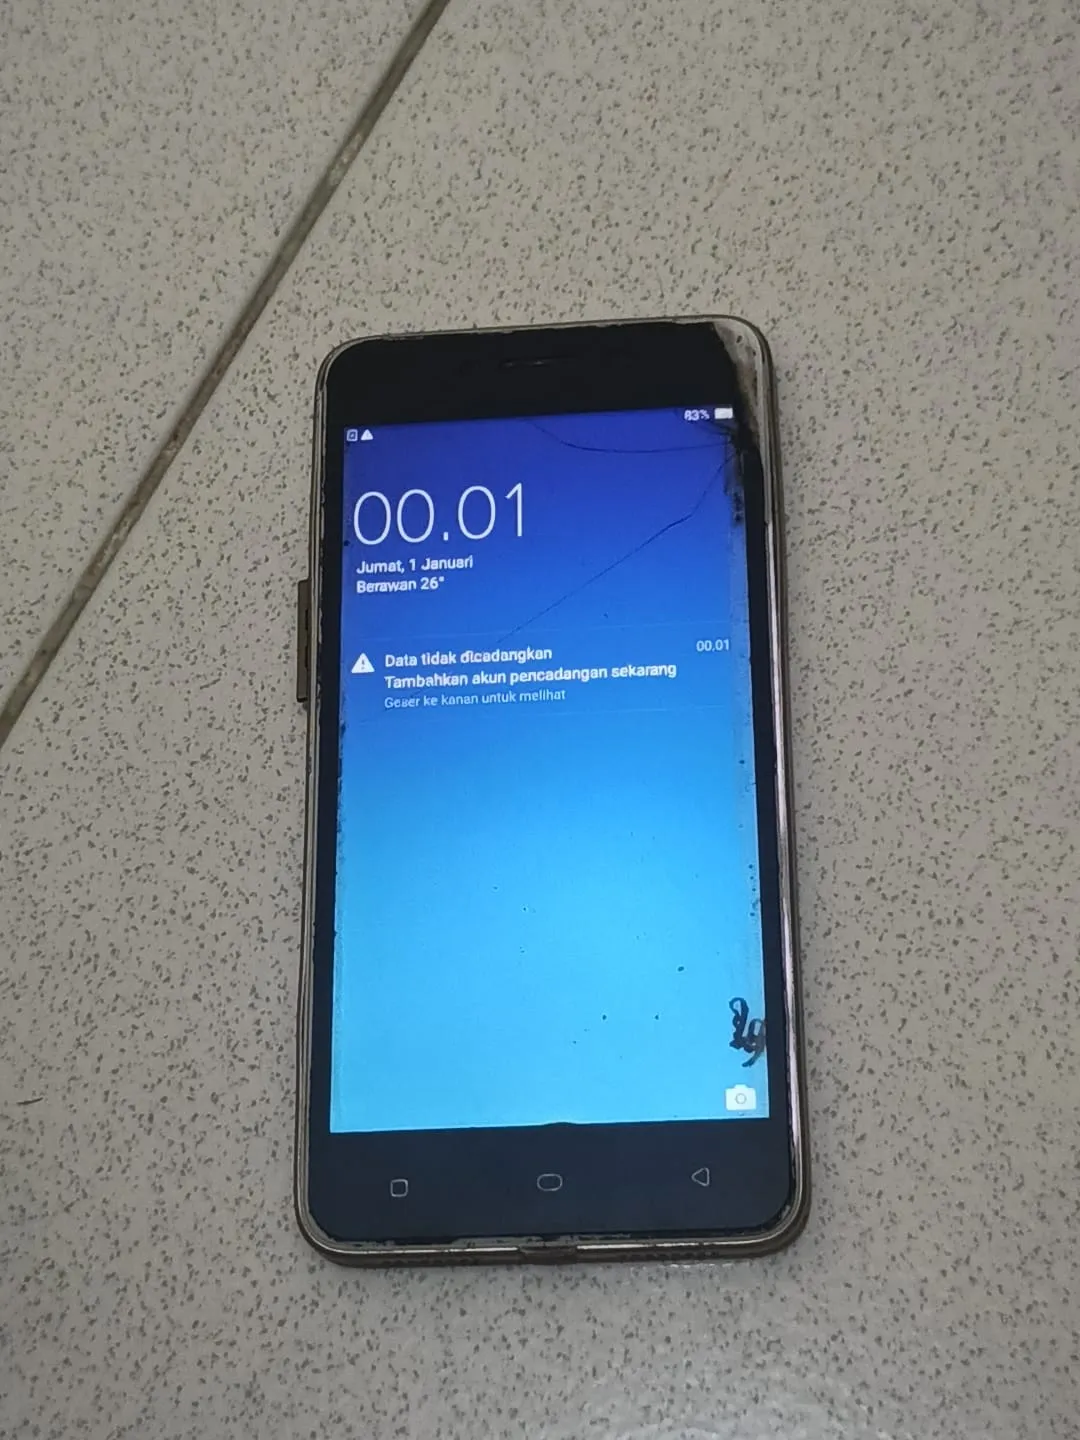
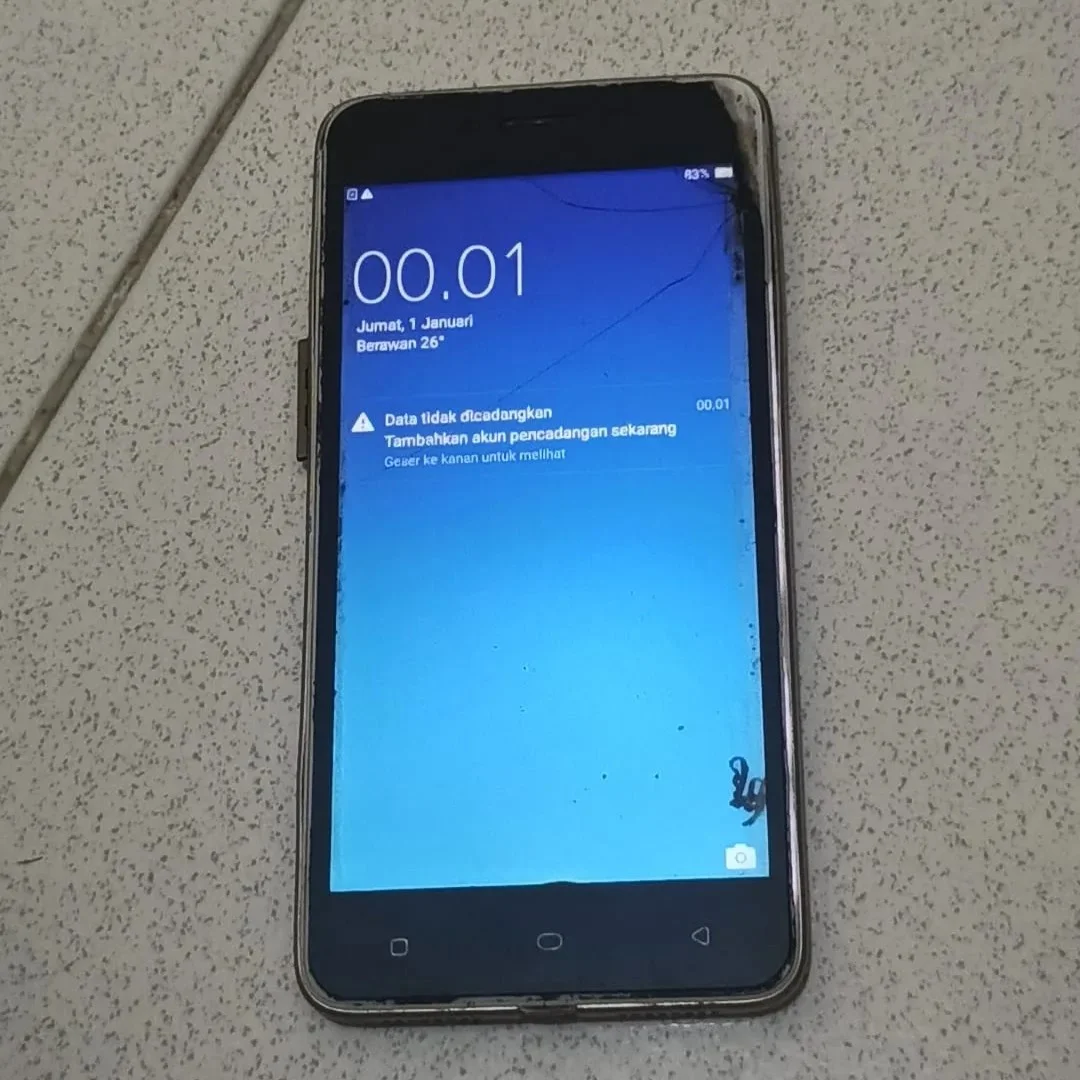
feat(contents): add content collections, homepage, and initial Oppo A37 teardown note

diff --git a/src/content.config.ts b/src/content.config.ts
@@ -25,6 +25,7 @@ const notesCollection = defineCollection({
     description: z.string(),
     date: z.date(),
     tags: z.array(z.string()).optional(),
+    thumbnail: z.string().optional(),
   }),
 });
 

diff --git a/src/styles/global.css b/src/styles/global.css
@@ -127,4 +127,5 @@ body {
   margin-left: auto !important;
   margin-right: auto !important;
   border-radius: 0.5rem;
+  filter: brightness(0.86) contrast(1.12) saturate(0.8);
 }

diff --git a/src/content/notes/oppo-a37-teardown-part-1.md b/src/content/notes/oppo-a37-teardown-part-1.md
@@ -3,6 +3,7 @@ title: "Oppo A37 Teardown (Part 1): Reviving My Father's Dead Phone"
 description: "Hardware teardown of an unbootable Oppo A37. Investigating power delivery failure after prolonged inactivity."
 date: 2026-09-11
 tags: ["hardware", "teardown", "oppo-a37", "experiment"]
+thumbnail: "/images/notes/oppo-a37-phone-reparation/battery-test-with-usb-doctor.webp"
 ---
 
 ## Background
